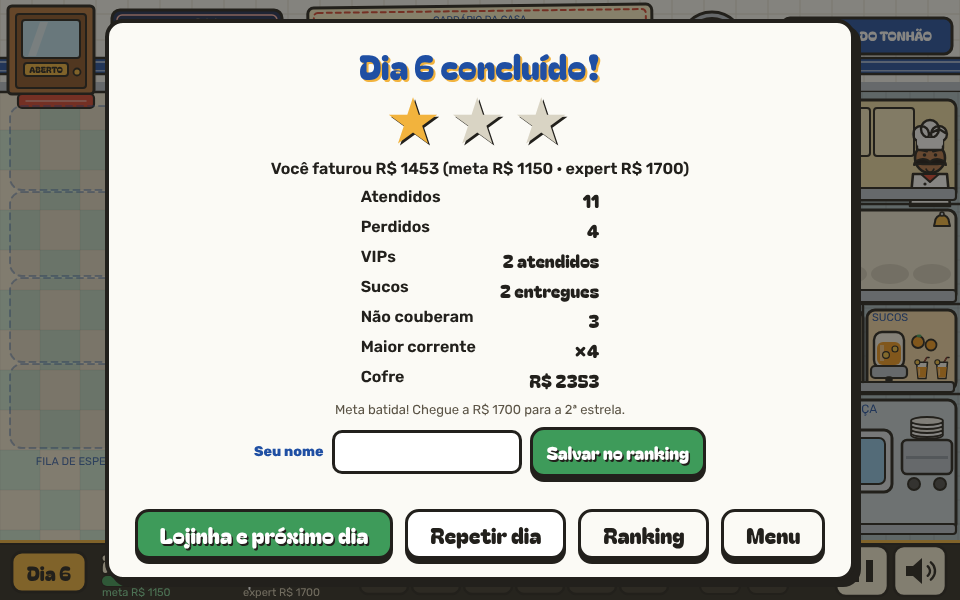
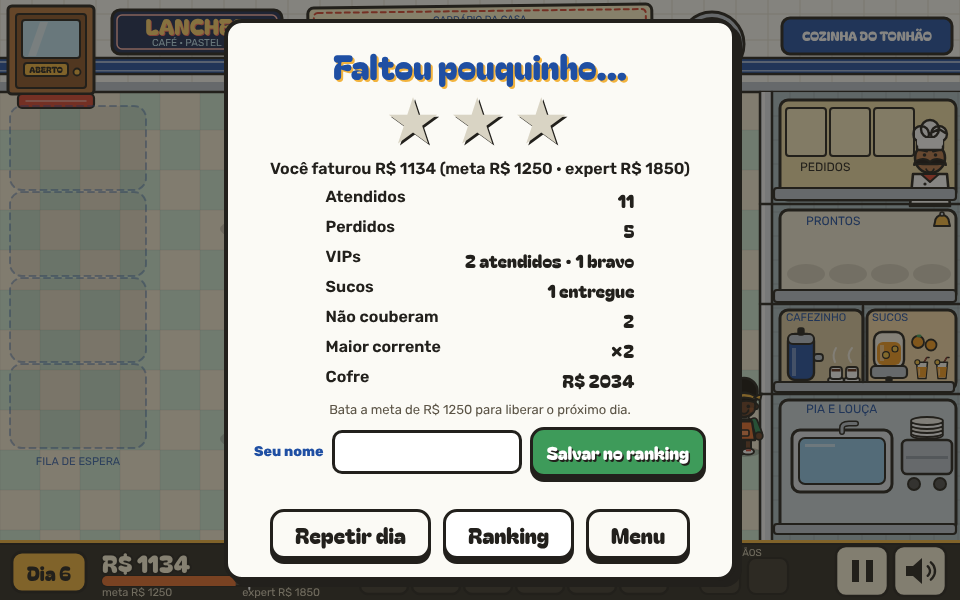
v4: regras finais da bandeja e das comandas
Bandeja: 1 prato + 1 bebida, 2 pratos, 3 bebidas ou 2 pilhas de louça
(ou menos), nunca sujo com limpo; a outra mão pode levar louça suja.
Comandas só na mão sem bandeja, todas juntas, até kitchen.slots (3).
Com as regras novas as metas da v3 voltam. Testes do smoke5 cobrem
as combinações; textos da lojinha e do Como jogar atualizados.

Claude-Session: https://claude.ai/code/session_014eUM1TJPrQ4AtSgVeDzYRp

diff --git a/lanchonete.html b/lanchonete.html
@@ -340,10 +340,10 @@ const DAYS = [
   { n:1, tables:[1,2,4],         groups:6,  types:['estudante','vovos'],                                   nu:null,         meta:250, expert:400,  time:150, speed:0.60, note:'' },
   { n:2, tables:[1,2,4,5],       groups:9,  types:['estudante','vovos','familia'],                         nu:'familia',    meta:700, expert:1100,  time:160, speed:0.60, note:'Chegou a família! Grupos de 3 ou 4 só cabem nas mesas grandes.' },
   { n:3, tables:[1,2,3,4,5],     groups:12, types:['estudante','vovos','familia','executiva'],             nu:'executiva',  meta:900, expert:1400,  time:170, speed:0.60, juice:0.3, note:'A executiva tem pouca paciência, mas deixa boa gorjeta. E abriu o balcão de sucos: quem pede suco quer receber antes da conta!' },
-  { n:4, tables:[1,2,3,4,5,6],   groups:14, types:['estudante','vovos','familia','executiva','entregador'], nu:'entregador', meta:1050,expert:1500, time:180, speed:0.58, juice:0.3, note:'O entregador de moto tem pressa: pouquíssima paciência!' },
-  { n:5, tables:[1,2,3,4,5,6],   groups:16, types:['estudante','vovos','familia','executiva','entregador'], nu:null,         meta:1050,expert:1550, time:190, speed:0.56, vip:0.15, juice:0.3, note:'Chegou cliente VIP (de óculos escuros e plaquinha dourada)! Fura a fila e tem menos paciência, mas paga gorjeta extra e um bônus se sair com 5 corações. Se sair bravo, a multa dobra.' },
-  { n:6, tables:[1,2,3,4,5,6],   groups:18, types:['estudante','vovos','familia','executiva','entregador'], nu:null,         meta:1150,expert:1700, time:200, speed:0.54, vip:0.15, juice:0.3, note:'Sexta-feira: ninguém quer esperar.' },
-  { n:7, tables:[1,2,3,4,5,6],   groups:22, types:['estudante','vovos','familia','executiva','entregador'], nu:null,         meta:1200,expert:1900, time:220, speed:0.52, vip:0.15, juice:0.3, note:'Tonhão está gripado: a cozinha anda mais devagar hoje.' }
+  { n:4, tables:[1,2,3,4,5,6],   groups:14, types:['estudante','vovos','familia','executiva','entregador'], nu:'entregador', meta:1050,expert:1600, time:180, speed:0.58, juice:0.3, note:'O entregador de moto tem pressa: pouquíssima paciência!' },
+  { n:5, tables:[1,2,3,4,5,6],   groups:16, types:['estudante','vovos','familia','executiva','entregador'], nu:null,         meta:1100,expert:1650, time:190, speed:0.56, vip:0.15, juice:0.3, note:'Chegou cliente VIP (de óculos escuros e plaquinha dourada)! Fura a fila e tem menos paciência, mas paga gorjeta extra e um bônus se sair com 5 corações. Se sair bravo, a multa dobra.' },
+  { n:6, tables:[1,2,3,4,5,6],   groups:18, types:['estudante','vovos','familia','executiva','entregador'], nu:null,         meta:1250,expert:1850, time:200, speed:0.54, vip:0.15, juice:0.3, note:'Sexta-feira: ninguém quer esperar.' },
+  { n:7, tables:[1,2,3,4,5,6],   groups:22, types:['estudante','vovos','familia','executiva','entregador'], nu:null,         meta:1300,expert:2100, time:220, speed:0.52, vip:0.15, juice:0.3, note:'Tonhão está gripado: a cozinha anda mais devagar hoje.' }
 ];
 
 const ENDLESS = { n:0, tables:[1,2,3,4,5,6], groups:0, types:['estudante','vovos','familia','executiva','entregador'], nu:null, meta:0, expert:0, time:0, speed:1, vip:0.12, juice:0.3, note:'', endless:true };
@@ -352,7 +352,7 @@ const UPGRADES = [
   { id:'tenis',      name:'Tênis novos',          desc:'A Bia anda 10% mais rápido.',                  cost:150 },
   { id:'jukebox',    name:'Jukebox',              desc:'A paciência na fila cai 20% mais devagar.',    cost:180 },
   { id:'cafeteira',  name:'Cafeteira de 2 bocas', desc:'O cafezinho devolve +2 corações.',             cost:200 },
-  { id:'bandeja',    name:'Bandeja',              desc:'Uma mão leva 2 pratos ou 3 bebidas; a outra, 1 item.', cost:220 },
+  { id:'bandeja',    name:'Bandeja',              desc:'Leva 2 pratos, 3 bebidas, prato + bebida ou 2 pilhas de louça.', cost:220 },
   { id:'ventilador', name:'Ventilador de teto',   desc:'A freguesia come 15% mais rápido.',            cost:250 },
   { id:'chapa',      name:'Chapa nova',           desc:'A cozinha trabalha 15% mais rápido.',          cost:300 }
 ];
@@ -671,7 +671,7 @@ class Group {
    ============================================================ */
 class Kitchen {
   constructor(game){ this.game = game; this.reset(); }
-  reset(){ this.queue = []; this.cooking = []; this.plates = [null,null,null,null]; this.pid = 0; this.slots = 3; this.sinkN = 0; }
+  reset(){ this.queue = []; this.cooking = []; this.plates = [null,null,null,null]; this.pid = 0; this.slots = KITCHEN_SLOTS; this.sinkN = 0; }
   submit(ticket){
     const g = this.game, grp = ticket.group;
     let time = rand(4,7);
@@ -711,29 +711,45 @@ class Kitchen {
 }
 
 /* ============================================================
-   MÃOS: sem bandeja, 1 item por mão. Com bandeja, uma mão leva
-   2 pratos OU 3 bebidas (cafezinho e suco) OU 1 item qualquer;
-   a outra mão leva 1 item.
+   MÃOS
+   - Comandas: só na mão sem bandeja, todas juntas, até o número de
+     bocas da cozinha (kitchen.slots, hoje 3). Essa mão não leva mais nada.
+   - Mão sem bandeja (sem comandas): 1 item qualquer, inclusive louça suja.
+   - Sem o upgrade, a outra mão também leva 1 item.
+   - Com a bandeja: 1 prato + 1 bebida, ou 2 pratos, ou 3 bebidas (cafezinho
+     e suco), ou 2 pilhas de louça suja, ou menos que isso. Sujo e limpo
+     nunca juntos na bandeja.
    ============================================================ */
+const KITCHEN_SLOTS = 3;
 const DRINKS = { coffee:1, juice:1 };
 function trayOk(items){
-  if (items.length <= 1) return true;
-  if (items.every(h => h.kind === 'dish')) return items.length <= 2;
-  if (items.every(h => DRINKS[h.kind])) return items.length <= 3;
-  return false;
-}
-/* divide os itens em [bandeja, outra mão]; null se não couberem */
-function handLayout(items, tray){
-  if (!tray){
-    if (items.length > 2) return null;
-    return [items.slice(0,1), items.slice(1,2)];
+  let d = 0, k = 0, s = 0;
+  for (const h of items){
+    if (h.kind === 'dish') d++;
+    else if (DRINKS[h.kind]) k++;
+    else if (h.kind === 'dirty') s++;
+    else return false;                 // comanda não vai na bandeja
   }
-  // tenta deixar na mão livre primeiro o item que não vai na bandeja (comanda, louça), depois qualquer um
-  const order = items.map((h,i) => i).sort((a,b) => (items[a].kind === 'dish' || DRINKS[items[a].kind] ? 1 : 0) - (items[b].kind === 'dish' || DRINKS[items[b].kind] ? 1 : 0));
-  if (trayOk(items)) return [items.slice(), []];
+  if (s) return d === 0 && k === 0 && s <= 2;
+  return (k === 0 && d <= 2) || (d === 0 && k <= 3) || (d <= 1 && k <= 1);
+}
+/* divide os itens em [bandeja ou 1ª mão, outra mão]; null se não couberem */
+function handLayout(items, tray, maxTickets){
+  if (maxTickets == null) maxTickets = KITCHEN_SLOTS;
+  const tickets = items.filter(h => h.kind === 'ticket'), rest = items.filter(h => h.kind !== 'ticket');
+  if (tickets.length > maxTickets) return null;
+  if (tickets.length){
+    // a mão sem bandeja fica com as comandas; o resto vai na bandeja (ou na outra mão, 1 item)
+    if (tray ? !trayOk(rest) : rest.length > 1) return null;
+    return [rest, tickets];
+  }
+  if (!tray) return rest.length <= 2 ? [rest.slice(0,1), rest.slice(1,2)] : null;
+  if (trayOk(rest)) return [rest, []];
+  // tenta deixar na mão livre primeiro a louça suja, depois qualquer item
+  const order = rest.map((h,i) => i).sort((a,b) => (rest[b].kind === 'dirty') - (rest[a].kind === 'dirty'));
   for (const i of order){
-    const rest = items.filter((h,j) => j !== i);
-    if (trayOk(rest)) return [rest, [items[i]]];
+    const others = rest.filter((h,j) => j !== i);
+    if (trayOk(others)) return [others, [rest[i]]];
   }
   return null;
 }
@@ -750,9 +766,10 @@ class Waitress {
   }
   get speed(){ return 260 * (this.g.up.tenis ? 1.1 : 1); }
   get tray(){ return !!this.g.up.bandeja; }
-  canTake(kind){ return !!handLayout(this.hands.concat([{ kind }]), this.tray); }
+  layout(items){ return handLayout(items || this.hands, this.tray, this.g.kitchen.slots); }
+  canTake(kind){ return !!this.layout(this.hands.concat([{ kind }])); }
   /* quantos itens comuns (comanda, louça) ainda cabem */
-  free(){ let n = 0; const extra = []; while (n < 3){ extra.push({ kind:'x' }); if (!handLayout(this.hands.concat(extra), this.tray)) break; n++; } return n; }
+  free(){ let n = 0; const extra = []; while (n < 3){ extra.push({ kind:'dirty' }); if (!this.layout(this.hands.concat(extra))) break; n++; } return n; }
   juiceN(){ return this.hands.filter(h => h.kind === 'juice').length; }
   enqueue(a){
     if (this.acts.length >= 6){ this.g.addText(this.x, this.y - 82, 'Fila cheia!', PAL.alerta, 15); return false; }
@@ -2181,7 +2198,7 @@ function drawHud(ctx,g,tm){
   }
   // mãos
   const tray = g.bia.tray;
-  const lay = handLayout(g.bia.hands, tray) || [g.bia.hands.slice(0,1), g.bia.hands.slice(1,2)];
+  const lay = g.bia.layout() || [g.bia.hands.slice(0,1), g.bia.hands.slice(1,2)];
   txt(ctx,tray ? 'BANDEJA · MÃO' : 'MÃOS',748,553,10,'#cfc7b0','center',FB);
   for (let i=0;i<2;i++){
     const hx = 700 + i*48, its = lay[i];
@@ -2282,7 +2299,7 @@ function render(g, ctx){
   const b = g.bia;
   items.push({ y:b.y, f:() => {
     drawBia(ctx,b,b.x,b.y,{ moving:b.moving, ph:b.walkPh, flip:b.dir, t:tm });
-    const lay = handLayout(b.hands, b.tray) || [b.hands.slice(0,1), b.hands.slice(1,2)];
+    const lay = b.layout() || [b.hands.slice(0,1), b.hands.slice(1,2)];
     lay.forEach((its,i) => {
       const hx = b.x + (i ? 20 : -20);
       if (i === 0 && b.tray && its.length){ ell(ctx,hx,b.y-20,its.length > 1 ? 20 : 14,5); fs(ctx,PAL.inox,2); }
@@ -2564,7 +2581,7 @@ function buildTips(){
     ['Toque nas mesas, na cozinha, nos pratos prontos, no cafezinho, nos sucos e na pia: a Bia faz tudo em ordem, na fila de ações. Toque num ícone da fila para cancelar.', c => {
       [['hat',14,16],['dish',32,16],['coffee',50,16],['dirty',14,46],['ticket',32,46],['coin',50,46]].forEach(a => { rr(c,a[1]-10,a[2]-10,20,22,5); fs(c,PAL.creme,1.8); drawIcon(c,a[0],a[1],a[2]+1,0.6,'pastel'); });
     }],
-    ['Ciclo da mesa: anote o pedido, leve à cozinha, busque o prato, entregue, receba a conta e recolha a louça. A Bia carrega 2 coisas por vez (mais com a bandeja).', c => {
+    ['Ciclo da mesa: anote o pedido, leve à cozinha, busque o prato, entregue, receba a conta e recolha a louça. A Bia leva 1 coisa em cada mão, mas até 3 comandas juntas numa mão.', c => {
       drawIcon(c,'ticket',12,16,0.7); drawIcon(c,'hat',30,16,0.7); drawIcon(c,'dish',48,16,0.7,'coxinha');
       drawIcon(c,'coin',16,46,0.7); drawIcon(c,'dirty',34,46,0.7); drawIcon(c,'drop',52,46,0.7);
     }],
@@ -2579,7 +2596,7 @@ function buildTips(){
       txt(c,'×3!',46,22,18,PAL.alerta,'center',FD,3);
       star(c,46,46,9,PAL.mostarda);
     }],
-    ['Do dia 3 em diante, alguns grupos pedem suco (o copinho com o número aparece na mesa). Pegue no balcão de sucos e entregue antes da conta, senão o grupo perde um coração. A bandeja da lojinha leva 2 pratos ou 3 bebidas numa mão.', c => {
+    ['Do dia 3 em diante, alguns grupos pedem suco (copinho com o número na mesa): pegue no balcão e entregue antes da conta, ou o grupo perde um coração. A bandeja leva 2 pratos, 3 bebidas ou prato + bebida.', c => {
       ell(c,32,50,22,6); fs(c,PAL.inox,2);
       drawIcon(c,'juice',20,38,0.8); drawIcon(c,'juice',32,36,0.8); drawIcon(c,'juice',44,38,0.8);
       rr(c,8,4,48,18,6); fs(c,'#fff',1.8); drawIcon(c,'juice',20,13,0.5); txt(c,'×3',38,13,11,PAL.tinta,'center',FD);
@@ -2887,7 +2904,7 @@ fit();
 try { Rank.init(); } catch(e) {}
 game.setState('menu');
 window.__game = game;
-window.__lcc = { JUICE, handLayout, trayOk, Game, Group, Table, Kitchen, Waitress, DAYS, UPGRADES, CUSTOMER_TYPES, LAYOUT, PAL, Sfx, findPath, render, Rank, sortRows, cleanName, normName, CMD, ENDLESS, VIP, rk, renderRank, openRank, closeRank, LS, lsGet, lsSet, loadSave };
+window.__lcc = { JUICE, KITCHEN_SLOTS, handLayout, trayOk, Game, Group, Table, Kitchen, Waitress, DAYS, UPGRADES, CUSTOMER_TYPES, LAYOUT, PAL, Sfx, findPath, render, Rank, sortRows, cleanName, normName, CMD, ENDLESS, VIP, rk, renderRank, openRank, closeRank, LS, lsGet, lsSet, loadSave };
 window.requestAnimationFrame(frame);
 
 })();

diff --git a/tests/smoke5.js b/tests/smoke5.js
@@ -3,17 +3,30 @@ const load=require('./harness.js');
 let fails=0, total=0; const ok=(c,m)=>{ total++; if(!c){fails++;console.log('FAIL:',m);} else console.log('ok  :',m); };
 const H=load(); const {g,L}=H;
 const K=k=>({kind:k}), many=(k,n)=>Array.from({length:n},()=>K(k));
-const fit=(items,tray)=>L.handLayout(items,tray)!==null;
+const fit=(items,tray,mt)=>L.handLayout(items,tray,mt)!==null;
 
 /* capacidade das mãos */
-ok(fit([K('dish'),K('ticket')],false) && !fit(many('dish',3),false),'sem bandeja: 2 itens');
-ok(!fit(many('juice',3),false),'sem bandeja: 3 sucos não cabem');
-ok(fit(many('dish',3),true) && !fit(many('dish',4),true),'bandeja: 2 pratos + 1 na outra mão, não 4');
-ok(fit(many('juice',4),true) && !fit(many('juice',5),true),'bandeja: 3 bebidas + 1 na outra mão, não 5');
-ok(fit([K('juice'),K('coffee'),K('juice'),K('dish')],true),'bandeja: 3 bebidas (café e suco) + prato na outra mão');
-ok(!fit([K('dish'),K('juice'),K('ticket')],true),'bandeja não mistura prato e bebida');
-ok(fit([K('dish'),K('dish'),K('dirty')],true) && !fit([K('dirty'),K('ticket'),K('dish')],true),'comanda e louça ocupam uma mão inteira');
-{ const lay=L.handLayout([K('ticket'),K('dish'),K('dish')],true); ok(lay[0].length===2&&lay[1][0].kind==='ticket','layout: pratos na bandeja, comanda na outra mão'); }
+ok(fit([K('dish'),K('coffee')],false) && !fit(many('dish',3),false) && !fit(many('juice',3),false),'sem bandeja: 1 item por mão');
+// bandeja: combinações máximas (+ mão livre vazia)
+ok(fit([K('dish'),K('juice')],true) && fit([K('dish'),K('coffee')],true),'bandeja: 1 prato + 1 bebida');
+ok(fit(many('dish',2),true) && fit(many('juice',3),true) && fit(many('coffee',3),true) && fit(many('dirty',2),true),'bandeja: 2 pratos, 3 sucos, 3 cafés, 2 pilhas de louça');
+ok(L.trayOk([K('dish'),K('juice')]) && !L.trayOk([K('dish'),K('juice'),K('juice')]) && !L.trayOk([K('dish'),K('dish'),K('juice')]),'bandeja: prato + bebida no máximo 1 de cada');
+ok(!L.trayOk(many('dish',3)) && !L.trayOk(many('juice',4)) && !L.trayOk(many('dirty',3)),'bandeja: acima do limite não cabe');
+ok(!L.trayOk([K('dirty'),K('dish')]) && !L.trayOk([K('dirty'),K('coffee')]),'bandeja: sujo e limpo nunca juntos');
+ok(!L.trayOk([K('ticket')]),'bandeja: comanda não vai');
+// bandeja + mão livre
+ok(fit([K('dish'),K('dish'),K('dirty')],true),'limpo na bandeja e louça suja na mão');
+ok(fit(many('dish',3),true) && !fit(many('dish',4),true),'2 pratos na bandeja + 1 na mão, não 4');
+ok(fit(many('juice',4),true) && !fit(many('juice',5),true),'3 sucos na bandeja + 1 na mão, não 5');
+ok(fit(many('dirty',3),true) && !fit(many('dirty',4),true),'2 pilhas na bandeja + 1 na mão, não 4');
+// comandas
+ok(fit(many('ticket',3),false) && !fit(many('ticket',4),false),'comandas: até 3 (bocas da cozinha) numa mão');
+ok(fit(many('ticket',5),true,5) && !fit(many('ticket',6),true,5),'limite de comandas acompanha as bocas da cozinha');
+ok(fit([K('ticket'),K('ticket'),K('dish')],false) && !fit([K('ticket'),K('dish'),K('dish')],false),'sem bandeja: comandas numa mão + 1 item na outra');
+ok(fit([K('ticket'),K('ticket'),K('ticket'),K('dish'),K('juice')],true),'com bandeja: 3 comandas na mão + prato e suco na bandeja');
+ok(!fit([K('ticket'),K('dirty'),K('dish')],true),'mão das comandas não leva mais nada');
+{ const lay=L.handLayout([K('ticket'),K('dish'),K('dish')],true); ok(lay[0].length===2&&lay[1].every(h=>h.kind==='ticket'),'layout: pratos na bandeja, comanda na outra mão'); }
+{ const lay=L.handLayout([K('dish'),K('dirty')],true); ok(lay[0][0].kind==='dish'&&lay[1][0].kind==='dirty','layout: louça suja vai na mão livre'); }
 
 /* estações */
 ok(g.stationAt(910,350)==='juice' && g.stationAt(820,350)==='coffee','balcão de sucos ao lado do cafezinho');

diff --git a/docs/spec-v4.md b/docs/spec-v4.md
@@ -12,18 +12,27 @@
 - Conta paga com suco faltando: o grupo perde 1 coração antes do cálculo (mínimo 1) e aparece "Faltou o suco!".
 - Estatísticas: "Sucos" no fim do dia (entregues e mesas sem suco) e "Sucos entregues" no fim do Turno sem fim.
 
-## Bandeja (lojinha, R$ 220)
-- Sem a bandeja: 1 item por mão (2 no total), como antes.
-- Com a bandeja, uma mão leva 2 pratos **ou** 3 bebidas (cafezinho e suco podem ir juntos) **ou** 1 item qualquer. A outra mão leva 1 item. Comanda e louça suja não vão empilhadas na bandeja.
-- `handLayout(itens, bandeja)` distribui os itens entre [bandeja, outra mão] ou devolve `null` se não couberem. `Waitress.canTake(tipo)` usa essa função em todas as ações.
-- No HUD, o rótulo vira "BANDEJA · MÃO" e os itens da bandeja aparecem lado a lado. A Bia aparece com uma bandeja de inox na mão esquerda.
+## Mãos, comandas e bandeja (lojinha, R$ 220)
+Regras definidas pelo usuário na revisão da v4:
+- **Comandas:** só vão na mão sem bandeja, todas juntas, até o número de bocas da cozinha (`kitchen.slots`, hoje 3, constante `KITCHEN_SLOTS`; um upgrade futuro pode aumentar). A mão que leva comandas não leva mais nada.
+- **Mão sem bandeja:** 1 item qualquer (prato, bebida ou pilha de louça suja) ou o maço de comandas.
+- **Sem o upgrade:** as duas mãos seguem essa regra (1 item em cada, ou comandas numa mão e 1 item na outra).
+- **Com a bandeja,** uma mão leva no máximo:
+  - 1 prato + 1 bebida;
+  - 2 pratos;
+  - 3 bebidas (cafezinho e suco, que podem ir misturados);
+  - 2 pilhas de louça suja;
+  - ou qualquer quantidade menor que essas.
+- Sujo e limpo nunca vão juntos na bandeja, mas a bandeja pode ir com coisas limpas enquanto a outra mão leva louça suja. Comanda nunca vai na bandeja.
+- Implementação:
+  - `trayOk(itens)` valida a bandeja;
+  - `handLayout(itens, bandeja, maxComandas)` distribui os itens entre [bandeja ou 1ª mão, outra mão] ou devolve `null`;
+  - `Waitress.layout()` e `canTake(tipo)` usam `kitchen.slots` como limite de comandas.
+- No HUD, o rótulo vira "BANDEJA · MÃO" e os itens agrupados aparecem lado a lado. A Bia aparece com uma bandeja de inox na mão esquerda.
 
 ## Balanceamento (bot, 80 rodadas por dia)
-- Os sucos dão trabalho extra, e o bot passou a perder mais clientes nos dias 4 a 7. As metas foram recalibradas:
-  - dia 4: expert de 1600 para 1500;
-  - dia 5: meta de 1100 para 1050, expert de 1650 para 1550;
-  - dia 6: meta de 1250 para 1150, expert de 1850 para 1700;
-  - dia 7: meta de 1300 para 1200, expert de 2100 para 1900.
-- Metas batidas pelo bot: dias 1 a 3, 80/80; dia 4, 74; dia 5, 79; dia 6, 73; dia 7, 70.
+- Na primeira versão da v4 (bandeja mais restrita e 1 comanda por mão), os sucos derrubaram as metas batidas nos dias 4 a 7, e as metas chegaram a ser reduzidas.
+- Com as regras finais (comandas empilhadas e bandeja mais versátil), o jogo voltou a render como na v3. As **metas da v3 foram mantidas**.
+- Metas batidas pelo bot: dias 1 a 3, 78 a 80 de 80; dia 4, 77; dia 5, 78; dia 6, 74; dia 7, 76.
 - O bot de teste (`tests/bot.js`) busca de uma vez todos os sucos que cabem nas mãos e os entrega. `tests/botpage.js` é gerado a partir dele.
 - O save continua `lcc2_save` e o upgrade novo entra em `save.up.bandeja`.

diff --git a/CLAUDE.md b/CLAUDE.md
@@ -38,7 +38,7 @@ node smoke2.js           # mecânicas: fluxo de mesa, mãos, fila de ações, pa
 node smoke3.js           # v2: pool de cores, fila lotada, Turno sem fim, ranking local/db (stub)
 node smoke4.js           # v3: clientes VIP (agenda, fila, conta, multa, Turno sem fim, render)
 node smoke5.js           # v4: sucos e bandeja (capacidade das mãos, pedido, entrega, conta sem suco, bot dias 3–7)
-node balance.js [N]      # N rodadas por dia (padrão 20); na v4, ~93% das metas batidas pelo bot
+node balance.js [N]      # N rodadas por dia (padrão 20); na v4, ~96% das metas batidas pelo bot
 python3 shot_v2.py       # capturas com Playwright/Chromium em ../capturas/v2
 python3 shot_v3.py       # capturas da v3 em ../capturas/v3 (usa /opt/pw-browsers/chromium se existir)
 python3 shot_v4.py       # capturas da v4 em ../capturas/v4
@@ -49,7 +49,7 @@ O smoke2 tinha uma falha intermitente ("conta paga, mesa suja, servidos=1", ~10%
 
 ## Artifact publicado
 - URL: https://claude.ai/artifact/MJxrgDg8S4akvg47SoQAvj (privado: dono e quem receber acesso)
-- Versão 1 (13/10/2026) é a v1. Versão 2 (14/10/2026), rótulo "v2 — revisão com base no clone". Versão 3 (14/10/2026), rótulo "v3 — clientes VIP"; Versões 4 e 5 foram ajustes de menu da v3. Versão 6 (14/10/2026), rótulo "v4 — sucos e bandeja".
+- Versão 1 (13/10/2026) é a v1. Versão 2 (14/10/2026), rótulo "v2 — revisão com base no clone". Versão 3 (14/10/2026), rótulo "v3 — clientes VIP"; Versões 4 e 5 foram ajustes de menu da v3. Versão 6 (14/10/2026), rótulo "v4 — sucos e bandeja"; Versão 7, "v4 — regras da bandeja e comandas".
 - Arquivos extras publicados: `versoes/v1.html`, `versoes/v2.html` e `versoes/v3.html`, abertos pelo painel Versões. Esse painel é acessado por um ícone discreto (relógio com seta, "Versões anteriores") no canto inferior direito do painel do menu, na linha do "Zerar progresso".
 - Ao republicar, os arquivos extras omitidos em `files` continuam publicados. Ao criar uma v5, guardar a v4 em `versoes/` e enviar `versoes/v4.html`.
 - Capacidades declaradas na v2. Ao republicar, omitir `capabilities` mantém essas regras:
@@ -89,8 +89,9 @@ O smoke2 tinha uma falha intermitente ("conta paga, mesa suja, servidos=1", ~10%
 - **v4 (14/10/2026), balcão de sucos e bandeja** (ver `docs/spec-v4.md`):
   - balcão de sucos ao lado do cafezinho; do dia 3 em diante, ~30% dos grupos pedem de 1 copo até o número de pessoas;
   - cada copo vale R$ 12 e cada entrega devolve 1 coração; conta paga sem o suco custa 1 coração;
-  - upgrade Bandeja (R$ 220): uma mão leva 2 pratos ou 3 bebidas, a outra mão 1 item;
-  - metas dos dias 5 a 7 e experts dos dias 4 a 7 recalibradas; "Como jogar" em duas colunas.
+  - comandas só na mão sem bandeja, todas juntas, até `kitchen.slots` (3);
+  - upgrade Bandeja (R$ 220): 1 prato + 1 bebida, 2 pratos, 3 bebidas ou 2 pilhas de louça (sujo nunca com limpo); a outra mão leva 1 item ou as comandas;
+  - metas da v3 mantidas; "Como jogar" em duas colunas.
 
 ## Ideias pendentes (não implementadas)
 - Testar som e toque em celular real (nunca testados).

diff --git a/docs/HISTORICO.md b/docs/HISTORICO.md
@@ -68,3 +68,11 @@
 - Na bandeja, cafezinho e suco contam como bebidas; comanda e louça suja ocupam uma mão inteira.
 - Com os sucos, o bot perdeu mais clientes nos dias 4 a 7. Primeiro o bot foi melhorado (busca vários sucos de uma vez); depois o preço do copo subiu para R$ 12, a frequência ficou em 30% e as metas foram recalibradas (ver `docs/spec-v4.md`).
 - A v3 foi guardada em `versoes/v3-fonte.html` e `versoes/v3.html`.
+
+## 14/10/2026: regras da bandeja e das comandas
+**Pedido:** "a bandeja pode transportar 1 prato e 1 suco, 1 prato e um café ou 2 pratos ou 3 sucos ou 3 cafés ou 2 pilhas de louças sujas ou qualquer quantidade inferior a essas citadas. bandeja não pode carregar coisas sujas com coisas limpas, mas na bandeja pode ter coisas limpas enquanto na mão tenha coisas sujas. papel de pedido só pode ir na mão sem bandeja, com limite do numero de slots atuais da cozinha, que atualmente é 3, mas pode receber upgrade no futuro".
+
+**Decisões:**
+- Cafezinho e suco podem ir misturados nas 3 bebidas da bandeja.
+- Sem o upgrade da bandeja, as comandas também empilham numa mão (até 3), já que as duas mãos são "mãos sem bandeja".
+- Com as regras novas o jogo ficou mais fácil do que a primeira v4, e as metas da v3 voltaram (ver `docs/spec-v4.md`).
